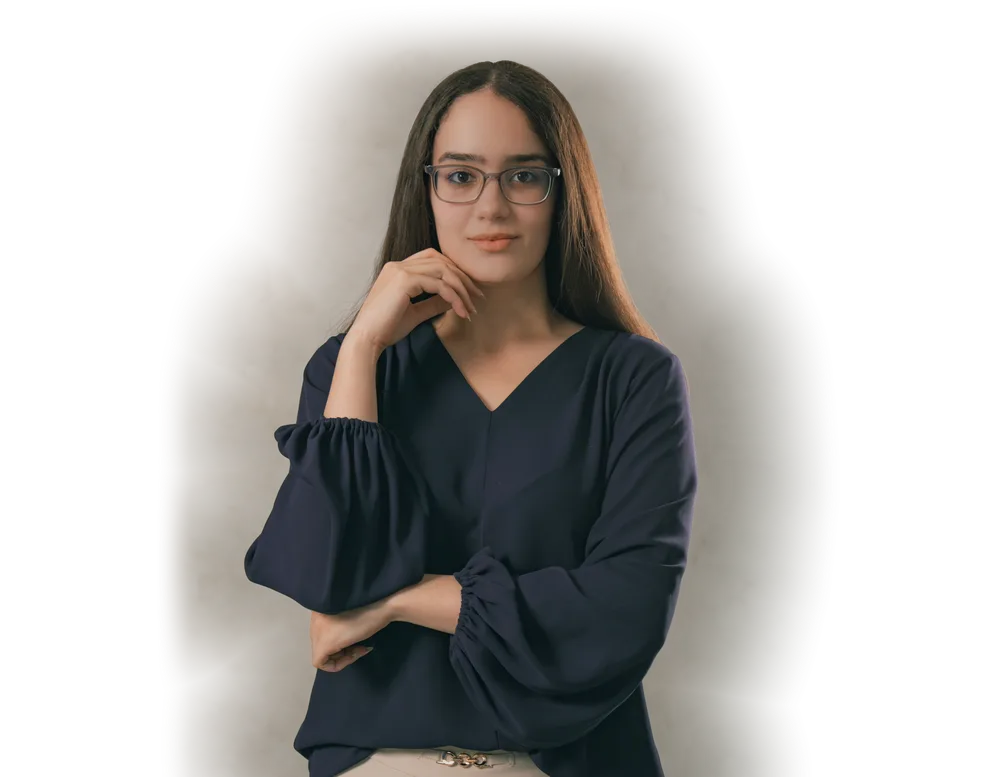
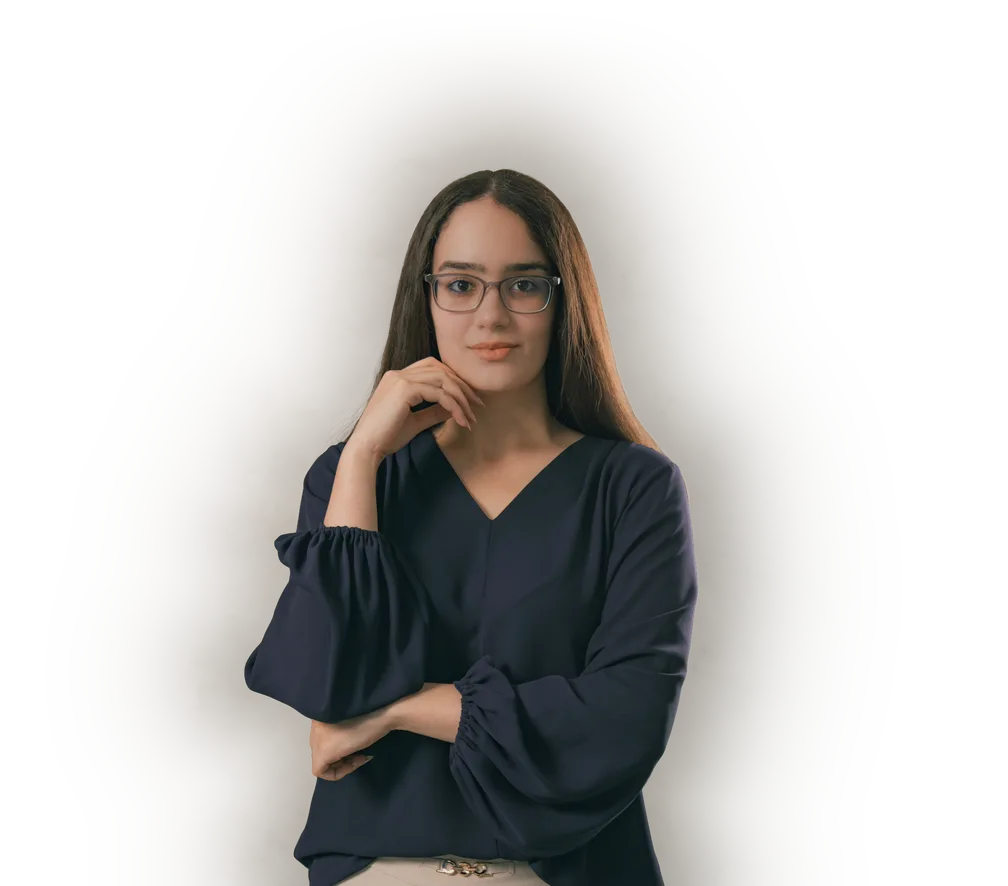
La pared del retrato se disuelve de verdad en el fondo
Con sólo alfa, la pared clara sobre el marino se leía como una mancha con
forma. Ahora una sola curva de cola larga la apaga desde la silueta y su
color va hacia el del fondo; el lienzo gana aire arriba para que el
degradado no choque con el borde. Las medidas de la portada se ajustan a
la nueva posición de la cabeza (19.1% del lienzo).

diff --git a/src/styles/home.css b/src/styles/home.css
@@ -237,11 +237,11 @@
   min-width: 0;
   /* La blusa se disuelve. En claro se mantiene más: el marino sobre el
      papel se leía como neblina. */
-  --portrait-fade: linear-gradient(to bottom, #000 50%, transparent 100%);
+  --portrait-fade: linear-gradient(to bottom, #000 56%, transparent 100%);
 }
 
 [data-theme="light"] .hero__portrait {
-  --portrait-fade: linear-gradient(to bottom, #000 74%, transparent 100%);
+  --portrait-fade: linear-gradient(to bottom, #000 73%, transparent 95%);
 }
 
 .hero__photo,
@@ -291,7 +291,7 @@
   left: 0;
   top: 0;
   width: 100cqi;
-  height: calc(100cqi * var(--portrait-ratio, 0.7708));
+  height: calc(100cqi * var(--portrait-ratio, 0.8785));
 }
 
 /* Táctil: el foco baja por el contorno mientras la portada sale. Sin
@@ -318,23 +318,23 @@
 @keyframes portrait-scan {
   from {
     opacity: 0;
-    transform: translate(calc(50cqi - 8rem), calc(100cqi * var(--portrait-ratio, 0.7708) * 0.06 - 8rem));
+    transform: translate(calc(50cqi - 8rem), calc(100cqi * var(--portrait-ratio, 0.8785) * 0.175 - 8rem));
   }
   18% {
     opacity: 1;
   }
   to {
     opacity: 1;
-    transform: translate(calc(50cqi - 8rem), calc(100cqi * var(--portrait-ratio, 0.7708) * 0.72 - 8rem));
+    transform: translate(calc(50cqi - 8rem), calc(100cqi * var(--portrait-ratio, 0.8785) * 0.754 - 8rem));
   }
 }
 
 @keyframes portrait-scan-back {
   from {
-    transform: translate(calc(8rem - 50cqi), calc(8rem - 100cqi * var(--portrait-ratio, 0.7708) * 0.06));
+    transform: translate(calc(8rem - 50cqi), calc(8rem - 100cqi * var(--portrait-ratio, 0.8785) * 0.175));
   }
   to {
-    transform: translate(calc(8rem - 50cqi), calc(8rem - 100cqi * var(--portrait-ratio, 0.7708) * 0.72));
+    transform: translate(calc(8rem - 50cqi), calc(8rem - 100cqi * var(--portrait-ratio, 0.8785) * 0.754));
   }
 }
 
@@ -380,11 +380,12 @@
 @media (min-width: 1024px) {
   .hero__portrait {
     /* Fuera de la rejilla: el alto es el tramo de la pastilla a los datos
-       (el bottom del hero, sin relleno). La coronilla está al 7.8% del
-       lienzo; este top la deja en la pastilla. El ancho sale del
+       (el bottom del hero, sin relleno). La coronilla está al 19.1% del
+       lienzo (encima va el aire del degradado); este top la deja en la
+       pastilla. El ancho sale del
        aspect-ratio, así que la persona encoge con el texto. */
     position: absolute;
-    top: calc((var(--hero-pad) - 7.8%) / 0.922);
+    top: calc((var(--hero-pad) - 19.1%) / 0.809);
     bottom: 0;
     left: min(0px, calc((var(--page-max) - 100vw) / 2));
     width: auto;
@@ -417,10 +418,13 @@
 @media (max-width: 1023px) {
   .hero__portrait {
     order: -1;
-    /* La persona es el 65% del ancho. 74dvh la contiene en tablet,
+    /* La persona es el 65% del ancho. 84dvh la contiene en tablet,
        donde a ese ancho el retrato se comería la frase. */
-    width: min(calc(65vw / 0.47), calc(74dvh / var(--portrait-ratio, 0.7708)));
-    max-height: 74dvh;
+    --portrait-w: min(calc(65vw / 0.47), calc(84dvh / var(--portrait-ratio, 0.8785)));
+    width: var(--portrait-w);
+    /* La coronilla está al 19.1% del lienzo: lo de encima es el aire del
+       degradado y sube por detrás del borde de la pantalla. */
+    margin-top: calc(var(--portrait-w) * var(--portrait-ratio, 0.8785) * -0.191 + var(--sp-5));
     /* Desborda su pista: sin `unsafe`, el centrado se vuelve "seguro" y el
        lienzo se alinea al inicio (la cara se salía por la derecha). */
     justify-self: unsafe center;
@@ -439,8 +443,7 @@
    en 375 y más altas no hace falta y la persona se quedaría chica. */
 @media (max-width: 1023px) and (max-height: 600px) {
   .hero__portrait {
-    width: min(calc(65vw / 0.47), calc(52dvh / var(--portrait-ratio, 0.7708)));
-    max-height: 52dvh;
+    --portrait-w: min(calc(65vw / 0.47), calc(59dvh / var(--portrait-ratio, 0.8785)));
   }
 }
 

diff --git a/src/content/portrait.js b/src/content/portrait.js
@@ -1,30 +1,30 @@
 /* generado por npm run portrait, no editar */
 export const portrait = {
   "w": 2016,
-  "h": 1554,
+  "h": 1771,
   "photo": {
     "dark": [
       {
         "src": "/assets/images/portrait/photo-dark-1008.webp",
         "w": 1008,
-        "h": 777
+        "h": 886
       },
       {
         "src": "/assets/images/portrait/photo-dark-2016.webp",
         "w": 2016,
-        "h": 1554
+        "h": 1771
       }
     ],
     "light": [
       {
         "src": "/assets/images/portrait/photo-light-1008.webp",
         "w": 1008,
-        "h": 777
+        "h": 886
       },
       {
         "src": "/assets/images/portrait/photo-light-2016.webp",
         "w": 2016,
-        "h": 1554
+        "h": 1771
       }
     ]
   },
@@ -33,24 +33,24 @@ export const portrait = {
       {
         "src": "/assets/images/portrait/rim-dark-1008.webp",
         "w": 1008,
-        "h": 777
+        "h": 886
       },
       {
         "src": "/assets/images/portrait/rim-dark-2016.webp",
         "w": 2016,
-        "h": 1554
+        "h": 1771
       }
     ],
     "light": [
       {
         "src": "/assets/images/portrait/rim-light-1008.webp",
         "w": 1008,
-        "h": 777
+        "h": 886
       },
       {
         "src": "/assets/images/portrait/rim-light-2016.webp",
         "w": 2016,
-        "h": 1554
+        "h": 1771
       }
     ]
   }

diff --git a/scripts/brand/portrait_layers.py b/scripts/brand/portrait_layers.py
@@ -27,13 +27,18 @@ from pathlib import Path
 
 import numpy as np
 from PIL import Image
-from rembg import new_session, remove
 from scipy.ndimage import distance_transform_edt, gaussian_filter, grey_erosion
 
 OUT = Path(__file__).parent / ".portrait"
 CROP_BOTTOM = 0.74      # de la cabeza a la cintura (fracción del alto original)
 WORK = 1400             # ancho de trabajo de la foto
 THEMES = ("dark", "light")
+BG = {"dark": (15, 21, 29), "light": (244, 241, 236)}   # --background de cada tema
+HALO = {
+    # reach: hasta dónde llega (ancho de foto); curve: cola; strength: máximo.
+    "dark": {"reach": 0.5, "curve": 2.6, "strength": 0.8, "tint": 0.72, "tint_at": 0.2},
+    "light": {"reach": 0.3, "curve": 2.2, "strength": 0.7, "tint": 0.6, "tint_at": 0.2},
+}
 RIM = {"dark": (240, 206, 150), "light": (255, 248, 236)}
 
 
@@ -46,47 +51,68 @@ def blur3(a, s):
     return np.stack([gaussian_filter(a[..., c], s) for c in range(3)], -1)
 
 
+def write_layers(scene_wall, photo, A, dist, edge, W):
+    """Pared de cada tema: se apaga, se oscurece y se tiñe con la distancia.
+
+    Sólo con alfa, una pared clara sobre el marino se leía como una mancha con
+    forma: la distancia se reparte con una curva de cola larga y, además, el
+    color va hacia el del fondo, así el borde no tiene de qué destacar. Una
+    sola curva desde la silueta: cualquier banda especial junto al contorno
+    se lee como un aura de recorte.
+    """
+    for theme in THEMES:
+        c = HALO[theme]
+        fall = np.clip(1 - dist / (W * c["reach"]), 0, 1) ** c["curve"]
+        # Desenfocada: la distancia marca aristas en los huecos de la silueta.
+        fall = gaussian_filter(fall, 45)
+        keep = fall * c["strength"] * edge
+        tint = (ss(dist / (W * c["tint_at"])) * c["tint"])[..., None]
+        wall = scene_wall * (1 - tint) + np.array(BG[theme], np.float32) * tint
+        wall_a = (1 - A) * keep
+        total = A + wall_a
+        rgb = (photo * A[..., None] + wall * wall_a[..., None]) / np.maximum(total, 1e-4)[..., None]
+        out = np.dstack([rgb, total * 255]).clip(0, 255).astype(np.uint8)
+        Image.fromarray(out, "RGBA").save(OUT / f"photo-{theme}.png")
+
+
 def main(src_path):
     OUT.mkdir(exist_ok=True)
     src = Image.open(src_path).convert("RGB")
     crop = src.crop((0, 0, src.width, int(src.height * CROP_BOTTOM)))
     crop = crop.resize((WORK, round(crop.height * WORK / crop.width)), Image.LANCZOS)
-    cut = remove(crop, session=new_session("birefnet-portrait"), post_process_mask=True)
+    # El recorte es lo lento y no cambia: se guarda para afinar el resto.
+    matte = OUT / "matte.png"
+    if not matte.exists():
+        from rembg import new_session, remove
+
+        cut = remove(crop, session=new_session("birefnet-portrait"), post_process_mask=True)
+        cut.getchannel("A").save(matte)
 
     orig = np.asarray(crop).astype(np.float32)
-    alpha = np.asarray(cut.getchannel("A")).astype(np.float32) / 255
+    alpha = np.asarray(Image.open(matte)).astype(np.float32) / 255
     H, W = alpha.shape
     M = int(W * 0.22)                       # pared prolongada a cada lado
+    TOP = int(H * 0.14)                     # y hacia arriba: aire sobre la cabeza
 
     # Pared sola: la persona se rellena con la pared de alrededor.
     wm = (alpha < 0.05).astype(np.float32)
     wall_only = blur3(orig * wm[..., None], 40) / np.maximum(gaussian_filter(wm, 40), 1e-4)[..., None]
     wall_only = orig * wm[..., None] + wall_only * (1 - wm[..., None])
-    big = blur3(np.pad(wall_only, ((0, 0), (M, M), (0, 0)), mode="edge"), 90)
+    big = blur3(np.pad(wall_only, ((TOP, 0), (M, M), (0, 0)), mode="edge"), 90)
 
-    WW = W + 2 * M
-    yy, xx = np.mgrid[0:H, 0:WW]
-    dx = np.minimum(xx - M, M + W - 1 - xx)
+    HH, WW = H + TOP, W + 2 * M
+    yy, xx = np.mgrid[0:HH, 0:WW]
+    dx = np.minimum(np.minimum(xx - M, M + W - 1 - xx), yy - TOP)
     inner = ss(dx / 80) * (dx >= 0)         # de la foto real a la pared prolongada
-    photo = np.zeros((H, WW, 3), np.float32)
-    photo[:, M:M + W] = orig
-    A = np.zeros((H, WW), np.float32)
-    A[:, M:M + W] = alpha
+    photo = np.zeros((HH, WW, 3), np.float32)
+    photo[TOP:, M:M + W] = orig
+    A = np.zeros((HH, WW), np.float32)
+    A[TOP:, M:M + W] = alpha
     scene_wall = photo * inner[..., None] + big * (1 - inner[..., None])
 
     dist = distance_transform_edt(A < 0.5)
-    keep = {
-        "dark": (1 - ss(dist / (W * 0.42))) * ss(np.minimum(xx, WW - 1 - xx) / (W * 0.12)) * ss(yy / (H * 0.16)),
-        "light": (1 - ss(dist / (W * 0.22))) * inner * ss(yy / (H * 0.12)) * 0.85,
-    }
-    # Con alfa, no con el color del fondo horneado: la página tiene grano y
-    # un resplandor arriba, y un fondo plano dejaría ver el rectángulo.
-    for theme in THEMES:
-        wall_a = (1 - A) * keep[theme]
-        total = A + wall_a
-        rgb = (photo * A[..., None] + scene_wall * wall_a[..., None]) / np.maximum(total, 1e-4)[..., None]
-        out = np.dstack([rgb, total * 255]).clip(0, 255).astype(np.uint8)
-        Image.fromarray(out, "RGBA").save(OUT / f"photo-{theme}.png")
+    edge = ss(np.minimum(np.minimum(xx, WW - 1 - xx), yy) / (W * 0.1))
+    write_layers(scene_wall, photo, A, dist, edge, W)
 
     # Filo: desde el alfa suavizado, para que no salga escalonado.
     a = gaussian_filter(A, 1.2)
@@ -96,7 +122,7 @@ def main(src_path):
     rim = np.clip(np.maximum(band * 1.8, glow), 0, 1)
     for theme, rgb in RIM.items():
         boost = 1.15 if theme == "light" else 1.0
-        out = np.zeros((H, WW, 4), np.uint8)
+        out = np.zeros((*A.shape, 4), np.uint8)
         out[..., :3] = rgb
         out[..., 3] = (np.clip(rim * boost, 0, 1) * 255).astype(np.uint8)
         Image.fromarray(out, "RGBA").save(OUT / f"rim-{theme}.png")

diff --git a/AGENTS.md b/AGENTS.md
@@ -129,11 +129,14 @@ silencio.
   estructurados. `portrait_layers.py` (Python local con rembg/scipy, paso
   único) recorta con BiRefNet y genera el halo y el filo; `npm run portrait`
   saca las WebP por tema y ancho y escribe `content/portrait.js`.
-- **Sin ficha.** La pared se queda junto a la silueta y se vuelve
-  transparente con la distancia (alfa, no el color del fondo horneado: la
-  página tiene grano y resplandor y se veía el rectángulo). La pared se
-  prolonga a los lados para que el degradado tenga sitio (la foto sólo
-  tenía ~60–100 px).
+- **Sin ficha.** La pared arranca junto a la silueta y se disuelve con la
+  distancia (alfa, no el color del fondo horneado: la página tiene grano y
+  resplandor y se veía el rectángulo). Una sola curva de cola larga, y además
+  el color va hacia el del fondo (`HALO` en `portrait_layers.py`): sólo con
+  alfa, la pared clara sobre el marino se leía como una mancha con forma.
+  Cualquier banda especial junto al contorno se lee como un aura de recorte.
+  La pared se prolonga a los lados y hacia arriba para que el degradado tenga
+  sitio (la foto sólo tenía ~60–100 px).
 - **En claro el halo es más corto y la blusa se funde sólo al final:** la
   pared gris y el marino sobre papel se leían como neblina. El filo en
   claro es blanco cálido: el bronce sobre la pared se veía café.
@@ -146,11 +149,11 @@ silencio.
 - **El texto no cede ante el retrato:** es el retrato el que escala
   (`--person`); la frase nunca por debajo de ~30ch. En móvil y en claro el
   nombre no pisa la blusa (tinta marina sobre marino).
-- **Junto a la silueta, la pared conserva su color original.** Cambiarla
-  pegada al recorte deja ver el borde del recorte ("dientes").
+- **El tinte de la pared empieza de cero en la silueta.** Cambiar su color de
+  golpe pegado al recorte deja ver el borde ("dientes").
 - **En escritorio el retrato encaja en el bloque de texto y no lo estira.**
   Va fuera de la rejilla (`position: absolute`): la cabeza a la altura de la
-  pastilla (la coronilla está al 7.8% del lienzo) y la blusa disuelta en la
+  pastilla (la coronilla está al 19.1% del lienzo) y la blusa disuelta en la
   línea de datos; la portada mide lo que su texto. Con el retrato en la
   rejilla y un alto de pantalla completa quedaban 363px vacíos antes de
   Trabajo. Su centro va al 78% de la ventana, pero su borde derecho no pasa
